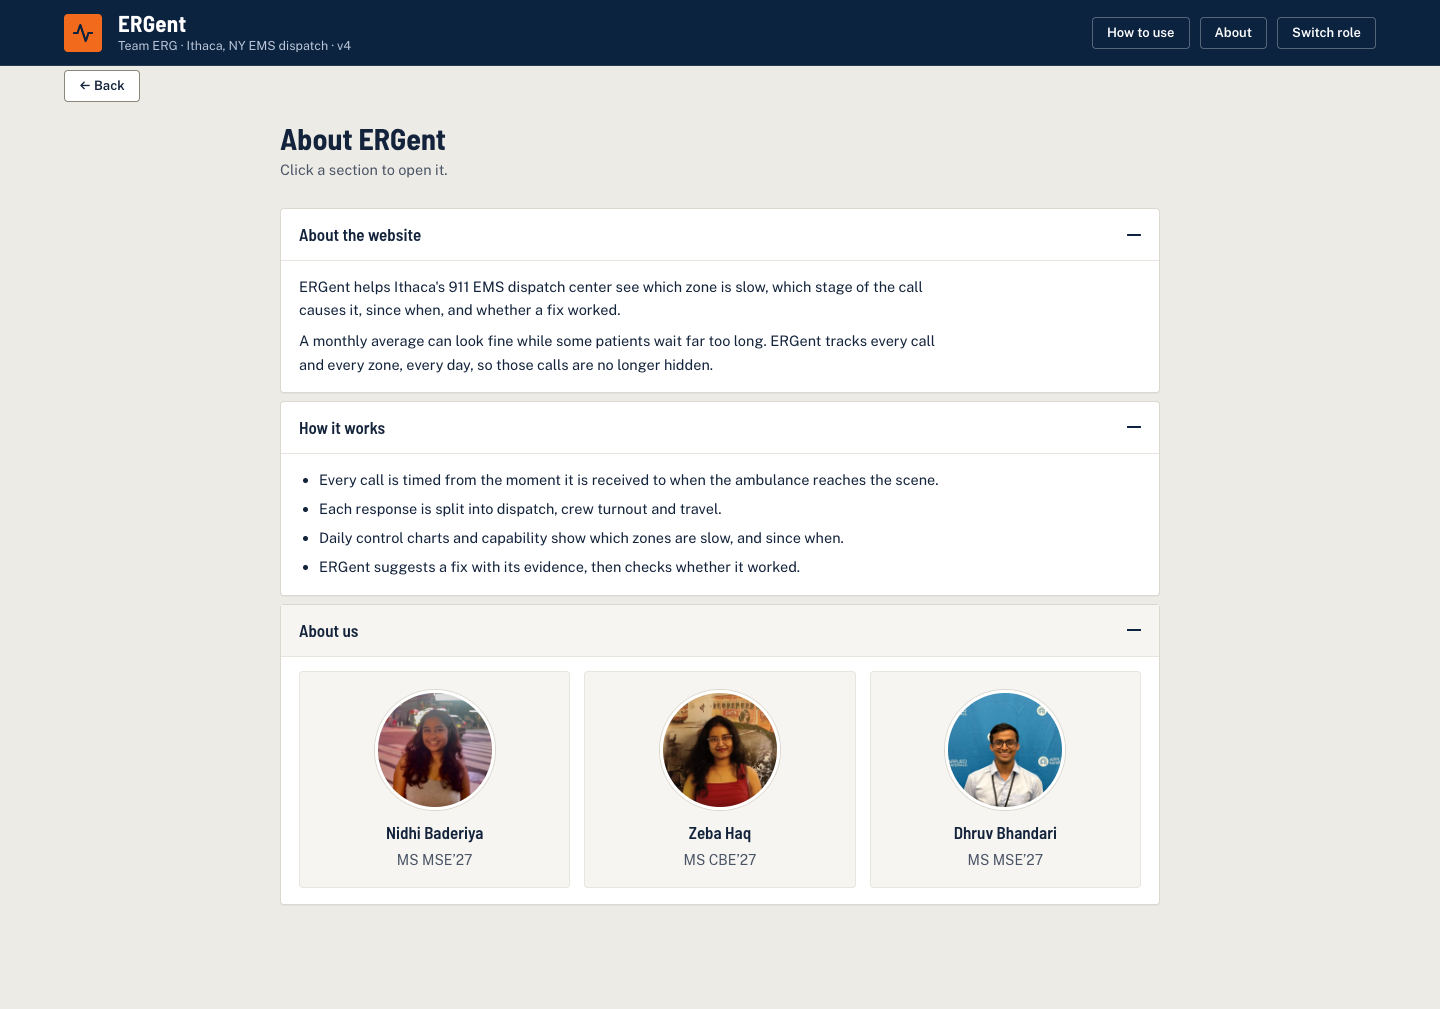
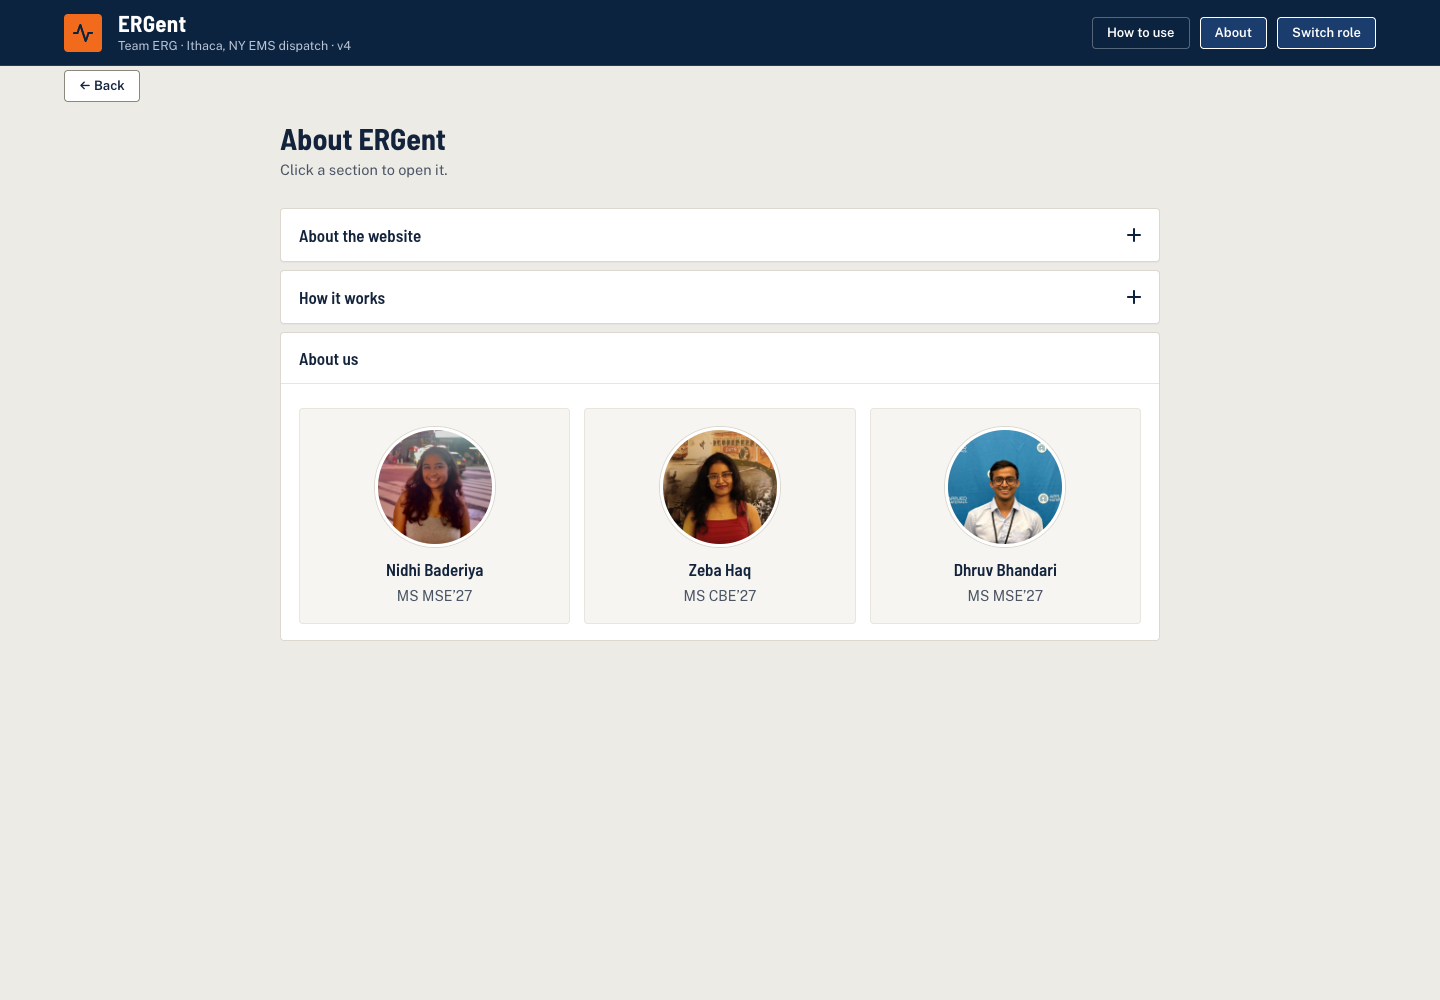
About us is always shown, not behind a dropdown

diff --git a/app/www/help.css b/app/www/help.css
@@ -57,3 +57,8 @@
   .rw-team { grid-template-columns: minmax(0, 1fr); }
   .rw-drop > summary, .rw-drop-body { padding-left: 14px; padding-right: 14px; }
 }
+
+/* About us: always open, in the same panel style as the dropdowns */
+.rw-panel { background: var(--panel); border: 1px solid var(--line); border-radius: var(--radius-sm, 4px); }
+.rw-panel-title { margin: 0; padding: 14px 18px; font: 600 17px/1.3 var(--sign); color: var(--ink); border-bottom: 1px solid var(--line-soft); }
+.rw-panel .rw-team { padding: 14px 18px 16px; }

diff --git a/app/ui_help.py b/app/ui_help.py
@@ -199,7 +199,8 @@ def about_page():
                       "Each response is split into dispatch, crew turnout and travel.",
                       "Daily control charts and capability show which zones are slow, and since when.",
                       "ERGent suggests a fix with its evidence, then checks whether it worked.")),
-            _drop("About us",
-                  ui.div(*[_member(*m) for m in TEAM], class_="rw-team")),
+            ui.tags.section(ui.h3("About us", class_="rw-panel-title"),
+                            ui.div(*[_member(*m) for m in TEAM], class_="rw-team"),
+                            class_="rw-panel"),
             class_="rw-drops"),
         class_="rw-about rw-info")
